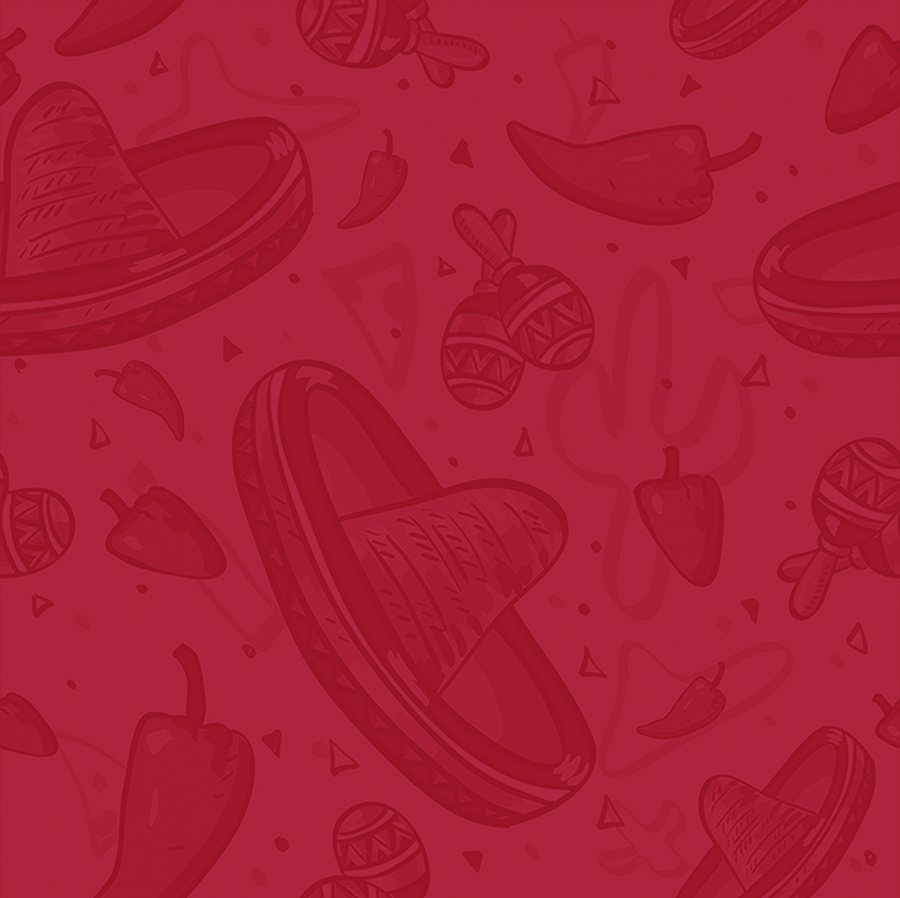
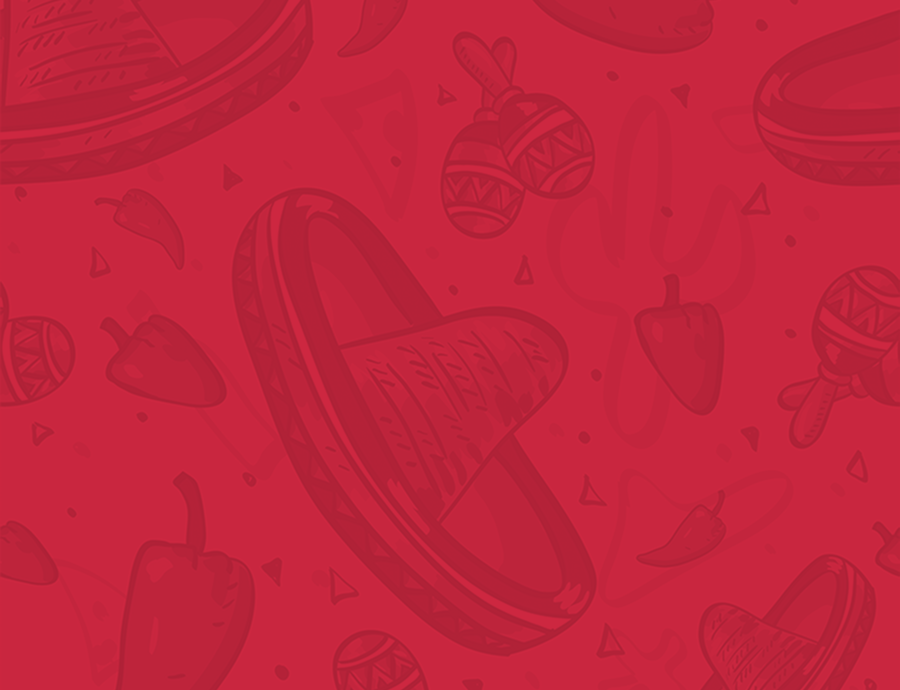
[#123882491] update-chilang-site

diff --git a/_site/css/reset.css b/_site/css/reset.css
@@ -1,6 +1,6 @@
 body {
   color: #fff;
-  background: #A1172C;
+  background: #cd2740;
   text-align: center;
   font-family: 'Raleway', sans-serif;
   font-weight: 400;
@@ -30,7 +30,7 @@ h1, h2, h3, h4, h5, h6 {
   color: #161616; }
   .btn-primary:hover, .btn-primary:focus, .btn-primary:active {
     background: #fff !important;
-    color: #A1172C !important;
+    color: #cd2740 !important;
     border-color: #eee; }
 
 .block {
@@ -67,11 +67,11 @@ h1, h2, h3, h4, h5, h6 {
     top: 0;
     left: 0;
     background-image: -webkit-gradient(linear, left top, left bottom, color-stop(0, #a1172b), color-stop(1, #a1172b));
-    background-image: -o-linear-gradient(right bottom, rgba(161, 23, 44, 0.5) 0%, rgba(161, 23, 44, 0.99) 100%);
-    background-image: -moz-linear-gradient(right bottom, rgba(161, 23, 44, 0.5) 0%, rgba(161, 23, 44, 0.99) 100%);
-    background-image: -webkit-linear-gradient(right bottom, rgba(161, 23, 44, 0.5) 0%, rgba(161, 23, 44, 0.99) 100%);
-    background-image: -ms-linear-gradient(right bottom, rgba(161, 23, 44, 0.5) 0%, rgba(161, 23, 44, 0.99) 100%);
-    background-image: linear-gradient(to right bottom, rgba(161, 23, 44, 0.5) 0%, rgba(161, 23, 44, 0.99) 100%); }
+    background-image: -o-linear-gradient(right bottom, rgba(205, 39, 64, 0.5) 0%, rgba(205, 39, 64, 0.99) 100%);
+    background-image: -moz-linear-gradient(right bottom, rgba(205, 39, 64, 0.5) 0%, rgba(205, 39, 64, 0.99) 100%);
+    background-image: -webkit-linear-gradient(right bottom, rgba(205, 39, 64, 0.5) 0%, rgba(205, 39, 64, 0.99) 100%);
+    background-image: -ms-linear-gradient(right bottom, rgba(205, 39, 64, 0.5) 0%, rgba(205, 39, 64, 0.99) 100%);
+    background-image: linear-gradient(to right bottom, rgba(205, 39, 64, 0.5) 0%, rgba(205, 39, 64, 0.99) 100%); }
   .hero .content {
     position: relative;
     z-index: 1; }
@@ -101,13 +101,13 @@ h1, h2, h3, h4, h5, h6 {
       padding: 7px;
       font-size: 18px; }
       .talks .talk .social i {
-        color: #A1172C;
+        color: #cd2740;
         margin-right: 4px; }
 
 .section-title {
   margin: 0;
   padding: 30px 0;
-  background: #A1172C url("../images/bg-red.png"); }
+  background: #cd2740 url("../images/bg-red.png"); }
 
 .map {
   background: #fff;
@@ -140,4 +140,4 @@ footer {
     height: 54px;
     margin: 10px; }
     footer a:hover, footer a:focus, footer a:active {
-      color: #A1172C; }
+      color: #cd2740; }

diff --git a/_site/index.html b/_site/index.html
@@ -24,7 +24,7 @@
         <div class="row">
           <div class="col-sm-8 col-sm-offset-2 content">
             <img src="images/logo.png" alt="Chilango Rails" class="logo">
-            <p class="lead">Somos una comunidad de desarrolladores fascinados con Ruby y con Rails y nos reunimos una vez al mes para platicar, aprender, chelear y comer pizza.</p>
+            <p class="lead">Somos una comunidad de desarrolladores web y nos reunimos una vez al mes para platicar, aprender, chelear y comer pizza.</p>
             <div class="date">
               <h4 class="uppercase">
                 Próximo Meetup:

diff --git a/index.html b/index.html
@@ -24,7 +24,7 @@
         <div class="row">
           <div class="col-sm-8 col-sm-offset-2 content">
             <img src="images/logo.png" alt="Chilango Rails" class="logo">
-            <p class="lead">Somos una comunidad de desarrolladores fascinados con Ruby y con Rails y nos reunimos una vez al mes para platicar, aprender, chelear y comer pizza.</p>
+            <p class="lead">Somos una comunidad de desarrolladores web y nos reunimos una vez al mes para platicar, aprender, chelear y comer pizza.</p>
             <div class="date">
               <h4 class="uppercase">
                 Próximo Meetup:

diff --git a/css/reset.scss b/css/reset.scss
@@ -3,7 +3,7 @@
 
 // Variables
 
-$accent-color: #A1172C;
+$accent-color: #cd2740;
 $white: #fff;
 $gray-dark-color: #161616;
 $gray-light-color: #eee;
